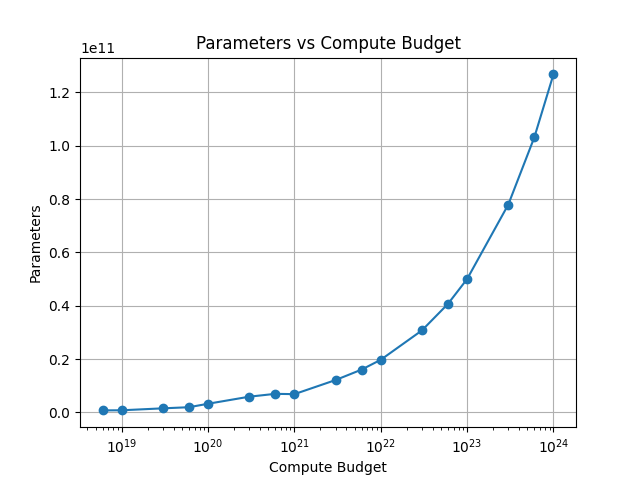
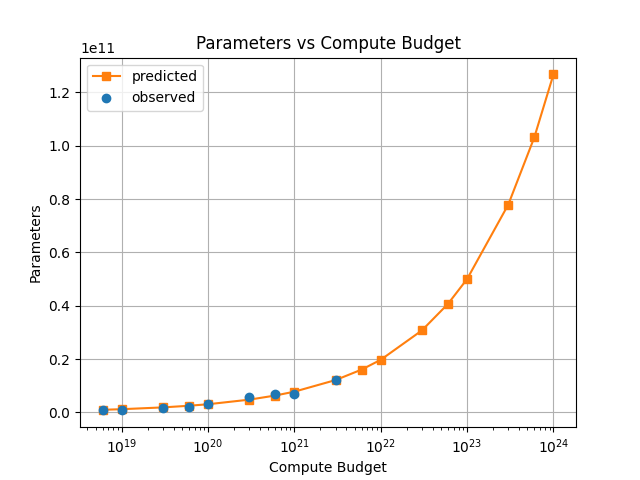
update plots

diff --git a/cs336_scaling/hw/isoflops_laws.py b/cs336_scaling/hw/isoflops_laws.py
@@ -14,12 +14,7 @@ def plot_loss_curves(df: pd.DataFrame, save_path: str):
   plt.figure()
   for cb, group in df.groupby("compute_budget"):
     group = group.sort_values("parameters")
-    plt.plot(
-      group["parameters"],
-      group["final_loss"],
-      marker="o",
-      label=f"{cb:.0e}"
-    )
+    plt.plot(group["parameters"], group["final_loss"], marker="o", label=f"{cb:.0e}")
   plt.xlabel("Parameters")
   plt.ylabel("Loss")
   plt.xscale("log")
@@ -27,20 +22,19 @@ def plot_loss_curves(df: pd.DataFrame, save_path: str):
   plt.grid(True)
   plt.savefig(save_path)
   
-def plot_against_compute(df: pd.DataFrame, y:str, ylabel: str, save_path: str):
+def plot_against_compute(df: pd.DataFrame, pred_df: pd.DataFrame, y:str, ylabel: str, save_path: str):
   os.makedirs(os.path.dirname(save_path), exist_ok=True)
   df = df.sort_values("compute_budget")
+  pred_df = pred_df.sort_values("compute_budget")
   plt.figure()
-  plt.plot(
-    df["compute_budget"],
-    df[y],
-    marker="o",
-  )
+  plt.plot(pred_df["compute_budget"], pred_df[y], color="tab:orange", marker="s", label="predicted")
+  plt.scatter(df["compute_budget"], df[y], color="tab:blue", label="observed", zorder=100)
   plt.xlabel("Compute Budget")
   plt.ylabel(ylabel)
   plt.xscale("log")
   plt.title(f"{ylabel} vs Compute Budget")
   plt.grid(True)
+  plt.legend()
   plt.savefig(save_path)
 
 def power_law(C, a, b):
@@ -70,14 +64,14 @@ if __name__ == "__main__":
   
   # a)
   min_df, fit_fn = fit_params(df)
-  preds = pd.DataFrame({"compute_budget": cbs, "parameters": [fit_fn(cb) for cb in cbs]})
-  pred_df = pd.concat([min_df, preds])
+  pred_cbs = sorted(set(cbs) | set(min_df["compute_budget"]))
+  preds = pd.DataFrame({"compute_budget": pred_cbs, "parameters": [fit_fn(cb) for cb in pred_cbs]})
   print(preds.to_latex(index=False, float_format="%.3e"))
-  plot_against_compute(pred_df, "parameters", "Parameters", "figs/2a_params.png")
+  plot_against_compute(min_df, preds, "parameters", "Parameters", "figs/2a_params.png")
   
   # b)
   min_d_df, fit_d_fn = fit_data(df)
-  preds = pd.DataFrame({"compute_budget": cbs, "d": [fit_d_fn(cb) for cb in cbs]})
-  pred_df = pd.concat([min_d_df, preds])
+  pred_cbs = sorted(set(cbs) | set(min_d_df["compute_budget"]))
+  preds = pd.DataFrame({"compute_budget": pred_cbs, "d": [fit_d_fn(cb) for cb in pred_cbs]})
   print(preds.to_latex(index=False, float_format="%.3e"))
-  plot_against_compute(pred_df, "d", "Data Size", "figs/2b_data.png")
+  plot_against_compute(min_d_df, preds, "d", "Data Size", "figs/2b_data.png")

diff --git a/cs336_scaling/hw/models.py b/cs336_scaling/hw/models.py
@@ -92,11 +92,13 @@ if __name__ == "__main__":
 
   cbs = pred_cs(fit_df)
   min_df, fit_n = fit_params(fit_df)
-  preds_n = pd.DataFrame({"compute_budget": cbs, "parameters": [fit_n(c) for c in cbs]})
-  print(pd.concat([min_df, preds_n]))
-  plot_against_compute(pd.concat([min_df, preds_n]), "parameters", "Parameters", "figs/3a_params.png")
+  pred_cbs = sorted(set(cbs) | set(min_df["compute_budget"]))
+  preds_n = pd.DataFrame({"compute_budget": pred_cbs, "parameters": [fit_n(c) for c in pred_cbs]})
+  print(preds_n)
+  plot_against_compute(min_df, preds_n, "parameters", "Parameters", "figs/3a_params.png")
 
   min_d_df, fit_d = fit_data(fit_df)
-  preds_d = pd.DataFrame({"compute_budget": cbs, "d": [fit_d(c) for c in cbs]})
-  print(pd.concat([min_d_df, preds_d]))
-  plot_against_compute(pd.concat([min_d_df, preds_d]), "d", "Data Size", "figs/3b_data.png")
+  pred_cbs = sorted(set(cbs) | set(min_d_df["compute_budget"]))
+  preds_d = pd.DataFrame({"compute_budget": pred_cbs, "d": [fit_d(c) for c in pred_cbs]})
+  print(preds_d)
+  plot_against_compute(min_d_df, preds_d, "d", "Data Size", "figs/3b_data.png")
